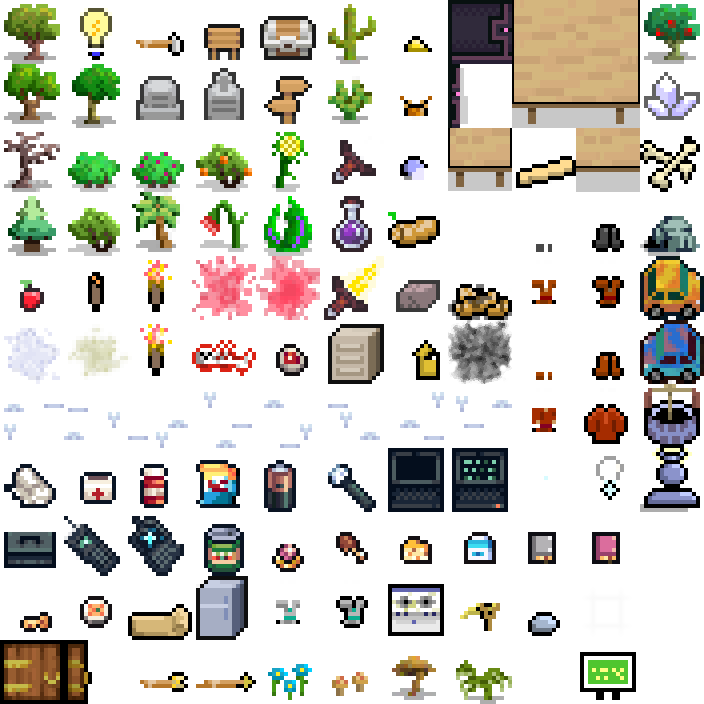
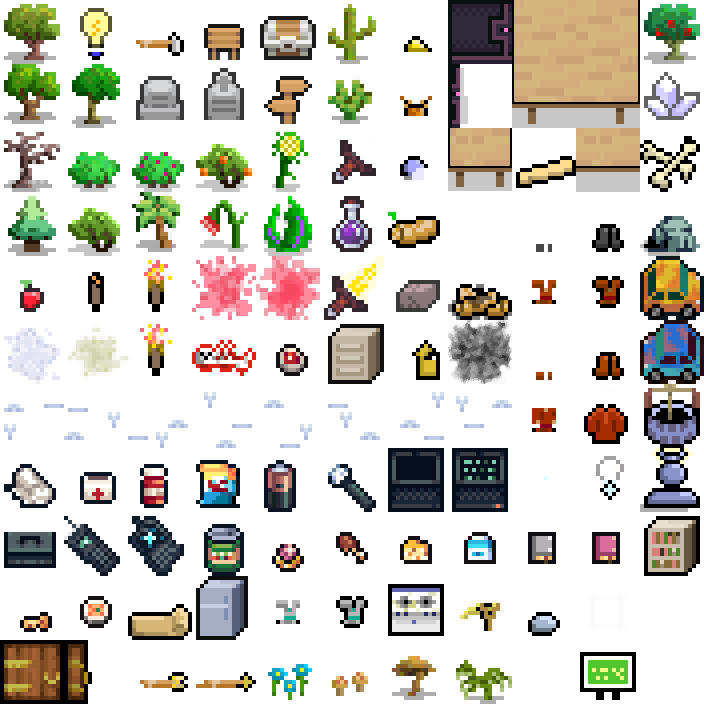
basic decor DSL

Changed region(s): [[0.9062, 0.7188, 1.0, 0.8438]]

diff --git a/src/main/kotlin/world/gen/decors/Decor.kt b/src/main/kotlin/world/gen/decors/Decor.kt
@@ -1,23 +1,29 @@
 package world.gen.decors
 
-import things.Table
 import things.Thing
 import util.Dice
 import util.Rect
 import util.XY
 import world.gen.cartos.Carto
 
-open class Decor {
+abstract class Decor {
 
     data class Room(
         val rect: Rect,
-        val clearCells: List<XY>,
+        val forbiddenCells: List<XY>,
     ) {
-        val width = rect.x1 - rect.x0
-        val height = rect.y1 - rect.y0
+        val width = rect.x1 - rect.x0 + 1
+        val height = rect.y1 - rect.y0 + 1
         val clearAt = Array(width) { Array(height) { true } }
+        val clears = mutableListOf<XY>()
         init {
-            clearCells.forEach {
+            for (ix in 0 until width) {
+                for (iy in 0 until height) {
+                    val cell = XY(rect.x0 + ix,rect.y0 + iy)
+                    if (!forbiddenCells.contains(cell)) clears.add(cell)
+                }
+            }
+            forbiddenCells.forEach {
                 val lx = it.x - rect.x0
                 val ly = it.y - rect.y0
                 if (lx >= 0 && ly >= 0 && lx < width && ly < height) clearAt[lx][ly] = false
@@ -26,40 +32,83 @@ open class Decor {
 
         fun unclear(loc: XY) {
             clearAt[loc.x-rect.x0][loc.y-rect.y0] = false
+            clears.remove(loc)
         }
-
-        fun clearCount(): Int {
-            var c = 0
-            clearAt.forEach { it.forEach { if (it) c++ }}
-            return c
-        }
-
-        fun randomClear(): XY? {
-            val clearCount = clearCount()
-            if (clearCount < 1) return null
-            val i = Dice.zeroTil(clearCount)
-            var j = 0
-            for (ix in 0 until width) {
-                for (iy in 0 until height) {
-                    if (clearAt[ix][iy]) {
-                        if (j >= i) return XY(rect.x0+ix, rect.y0+iy)
-                        j++
+        fun unclearAround(loc: XY) {
+            for (ix in -1..1) {
+                for (iy in -1..1) {
+                    val lx = loc.x + ix - rect.x0
+                    val ly = loc.y + iy - rect.y0
+                    if (lx >= 0 && ly >= 0 && lx < width && ly < height) {
+                        clearAt[lx][ly] = false
+                        clears.remove(XY(lx + rect.x0, ly + rect.y0))
                     }
                 }
             }
-            return null
         }
     }
 
-    open fun furniture(): Thing = Table()
+    private lateinit var carto: Carto
+    private lateinit var room: Room
+    private var cell = XY(0,0)
 
-    open fun furnish(room: Room, carto: Carto) {
-        repeat ((room.clearCount() * 0.12).toInt()) {
-            room.randomClear()?.also {
-                carto.spawnThing(it.x, it.y, furniture())
-                room.unclear(it)
+    fun furnish(room: Room, carto: Carto) {
+        this.carto = carto
+        this.room = room
+        doFurnish()
+    }
+
+    abstract fun doFurnish()
+
+    protected fun chance(chance: Float, doThis: ()->Unit) {
+        if (Dice.chance(chance)) doThis()
+    }
+
+    protected fun spawn(thing: Thing) {
+        carto.spawnThing(cell.x, cell.y, thing)
+        room.unclear(cell)
+    }
+
+    protected fun clearAround() {
+        room.unclearAround(cell)
+    }
+
+    protected fun againstWall(doThis: ()->Unit) {
+        val walls = room.clears.filter {
+            it.x == room.rect.x0 || it.y == room.rect.y0 || it.x == room.rect.x1 || it.y == room.rect.y1
+        }
+        if (walls.isEmpty()) return
+        cell = walls.random()
+        doThis()
+    }
+
+    protected fun awayFromWall(doThis: ()->Unit) {
+        val nonwalls = room.clears.filter {
+            it.x != room.rect.x0 && it.y != room.rect.y0 && it.x != room.rect.x1 && it.y != room.rect.y1
+        }
+        if (nonwalls.isEmpty()) return
+        cell = nonwalls.random()
+        doThis()
+    }
+
+    protected fun anyEmpty(doThis: ()->Unit) {
+        if (room.clears.isEmpty()) return
+        cell = room.clears.random()
+        doThis()
+    }
+
+    protected fun forEachClear(doThis: (x: Int, y: Int)->Unit) {
+        for (ix in room.rect.x0..room.rect.x1) {
+            for (iy in room.rect.y0..room.rect.y1) {
+                if (room.clearAt[ix-room.rect.x0][iy-room.rect.y0]) {
+                    cell = XY(ix, iy)
+                    doThis(ix, iy)
+                }
             }
         }
-
     }
+
+    protected val clearCount: Int
+        get() = room.clears.size
+
 }

diff --git a/src/main/kotlin/world/gen/features/ChunkFeature.kt b/src/main/kotlin/world/gen/features/ChunkFeature.kt
@@ -10,8 +10,7 @@ import world.Chunk
 import world.ChunkMeta
 import world.gen.biomes.Biome
 import world.gen.cartos.WorldCarto
-import world.gen.decors.Decor
-import world.gen.decors.Hut
+import world.gen.decors.*
 import world.gen.villagePlantSpawns
 import world.terrains.Terrain
 
@@ -156,11 +155,11 @@ sealed class ChunkFeature(
             splitDoor = Dice.range(y+2, y+height-3)
             if (split == doorx) split +=1
             rooms.add(Decor.Room(
-                Rect(x0+x+2, y0+y+2, x0+split-2, y0+y+height-2),
+                Rect(x0+x+2, y0+y+2, x0+split-2, y0+y+height-3),
                 listOf(doorClearCell, XY(x0 + split - 1, y0 + splitDoor))
             ))
             rooms.add(Decor.Room(
-                Rect(x0+split+2, y0+y+2, x0+x+width-2, y0+y+height-2),
+                Rect(x0+split+2, y0+y+2, x0+x+width-3, y0+y+height-3),
                 listOf(doorClearCell, XY(x0 + split + 1, y0 + splitDoor))
             ))
         } else if (height > 9 && height > width && Dice.chance(0.7f)) {
@@ -173,12 +172,12 @@ sealed class ChunkFeature(
                 listOf(doorClearCell, XY(x0+splitDoor, y0+split-1))
             ))
             rooms.add(Decor.Room(
-                Rect(x0+x+2, y0+split+1, x0+x+width-2, y0+y+height-2),
+                Rect(x0+x+2, y0+split+1, x0+x+width-3, y0+y+height-3),
                 listOf(doorClearCell, XY(x0+splitDoor, y0+split+1))
             ))
         } else {
             rooms.add(Decor.Room(
-                Rect(x0+x+2, y0+y+2, x0+x+width-2, y0+y+height-2),
+                Rect(x0+x+2, y0+y+2, x0+x+width-3, y0+y+height-3),
                 listOf(doorClearCell)
             ))
         }
@@ -233,10 +232,11 @@ sealed class ChunkFeature(
         // Furnish rooms
         when (rooms.size) {
             1 -> {
-                Hut.furnish(rooms[0], carto)
+                Schoolhouse().furnish(rooms[0], carto)
             }
             2 -> {
-                Hut.furnish(rooms[0], carto)
+                HutBedroom().furnish(rooms[0], carto)
+                HutLivingRoom().furnish(rooms[1], carto)
             }
         }
         // Grow yard
@@ -255,6 +255,7 @@ sealed class ChunkFeature(
         if (!isAbandoned || Dice.chance(0.3f)) safeSetTerrain(x0 + doorx + doorDir.x, y0 + doory + doorDir.y,
             if (Dice.chance(0.3f)) Terrain.Type.TERRAIN_STONEFLOOR else dirtType)
         if (!isAbandoned || Dice.chance(0.3f)) safeSetTerrain(x0 + doorx + doorDir.x*2, y0 + doory + doorDir.y * 2, dirtType)
+        if (!isAbandoned) flagsAt(x0 + doorx + doorDir.x, y0 + doory + doorDir.y).add(WorldCarto.CellFlag.NO_PLANTS)
 
         swapTerrain(Terrain.Type.TEMP3, meta.biome.baseTerrain)
     }

diff --git a/src/main/kotlin/world/gen/decors/Hut.kt b/src/main/kotlin/world/gen/decors/Hut.kt
@@ -1,15 +1,45 @@
 package world.gen.decors
 
-import things.Bedroll
-import things.Table
-import things.Trunk
+import things.*
 import util.Dice
 
-object Hut : Decor() {
-    override fun furniture() = when (Dice.oneTo(3)) {
-        1 -> Table()
-        2 -> Bedroll()
-        3 -> Trunk()
-        else -> Trunk()
+class Hut : Decor() {
+    override fun doFurnish() {
+        againstWall { spawn(Bedroll()) }
+        chance(0.3f) { againstWall { spawn(Trunk()) } }
+        chance(0.6f) { awayFromWall { spawn(Table()) } }
+    }
+}
+
+class HutBedroom : Decor() {
+    override fun doFurnish() {
+        againstWall { spawn(Bedroll()) }
+        chance(0.4f) { againstWall { spawn(Trunk()) } }
+    }
+}
+
+class HutLivingRoom : Decor() {
+    override fun doFurnish() {
+        chance(0.7f) { anyEmpty { spawn(Table()) } }
+        if (clearCount > 15) {
+            anyEmpty { spawn(Table()) }
+        }
+        if (clearCount > 20) {
+            chance(0.6f) { againstWall { spawn(
+                if (Dice.chance(0.7f)) FilingCabinet() else Bookshelf()
+            )}}
+        }
+    }
+}
+
+class Schoolhouse : Decor() {
+    override fun doFurnish() {
+        repeat(Dice.oneTo(2)) { againstWall {
+            spawn(Bookshelf())
+            clearAround()
+        } }
+        forEachClear { x,y ->
+            if (x % 2 == 0 && y % 2 == 0) spawn(Table())
+        }
     }
 }

diff --git a/src/main/kotlin/world/Director.kt b/src/main/kotlin/world/Director.kt
@@ -152,7 +152,7 @@ class Director(val level: Level) {
 
     fun advanceTime(delta: Float) {
         actors.filterOut({ it.level != level }) { it.advanceTime(delta) }
-        temporals.filterOut({ it != null && it.temporalDone() }) { it.advanceTime(delta) }
+        temporals.filterOut({ it.temporalDone() }) { it.advanceTime(delta) }
     }
 
     fun linkTemporal(temporal: Temporal) {
